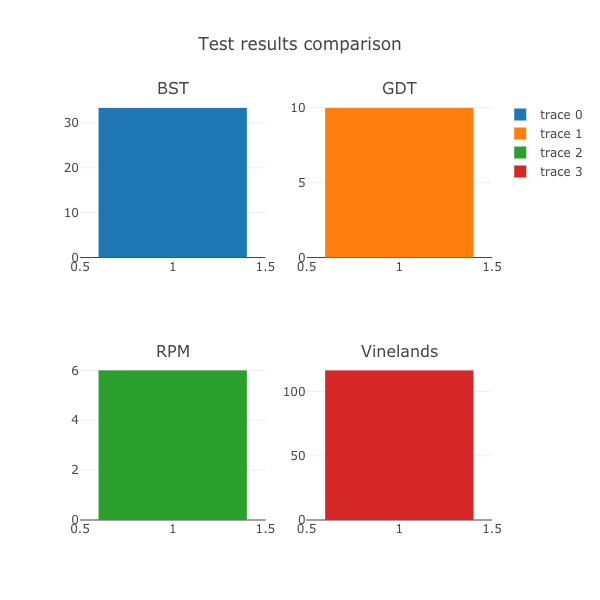
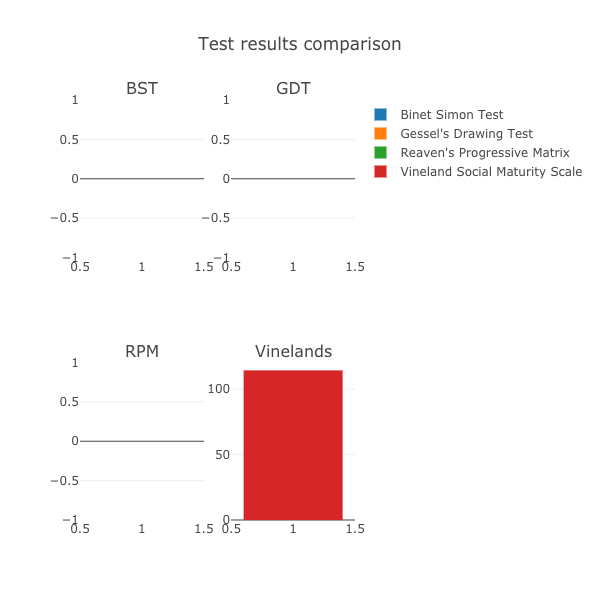
Age adaptive

diff --git a/Amaatra/calling.py b/Amaatra/calling.py
@@ -18,6 +18,7 @@ Age = 0
 test_number = 0
 
 def RPMCALL():
+    global Age
     root = Tk()
     w = 500 # width for the Tk root
     h = 500 # height for the Tk root
@@ -30,12 +31,13 @@ def RPMCALL():
     # set the dimensions of the screen
     # and where it is placed
     root.geometry('%dx%d+%d+%d' % (w, h, x, y))
-    RPMcall = RPM(root,6)
+    RPMcall = RPM(root,Age)
     root.mainloop()
     global RPMresult
     RPMresult=RPMcall.getresult()
 
 def BSTCALL():
+    global Age
     root = Tk()
     w = 500 # width for the Tk root
     h = 500 # height for the Tk root
@@ -48,12 +50,13 @@ def BSTCALL():
     # set the dimensions of the screen
     # and where it is placed
     root.geometry('%dx%d+%d+%d' % (w, h, x, y))
-    BSTcall = BST(root,6)
+    BSTcall = BST(root,Age)
     root.mainloop()
     global BSTresult
     BSTresult=BSTcall.getresult()
 
 def GDTCALL():
+    global Age
     root = Tk()
     w = 500 # width for the Tk root
     h = 500 # height for the Tk root
@@ -66,19 +69,19 @@ def GDTCALL():
     # set the dimensions of the screen
     # and where it is placed
     root.geometry('%dx%d+%d+%d' % (w, h, x, y))
-    GDTcall = GDT(root,6)
+    GDTcall = GDT(root,Age)
     root.mainloop() 
     global GDTresult
     GDTresult=GDTcall.getresult()
 
 def VLCALL():
-    c = Caller()
+    global Age
+    c = Caller(Age)
     global VLresult
     VLresult = c.getresult()
 
 def gph():
     global RPMresult,BSTresult,GDTresult,VLresult,RPMresultl,BSTresultl,GDTresultl,VLresultl
-    print("In Graph")
     root = Tk()
     w = 500 # width for the Tk root
     h = 500 # height for the Tk root
@@ -91,8 +94,9 @@ def gph():
     # set the dimensions of the screen
     # and where it is placed
     root.geometry('%dx%d+%d+%d' % (w, h, x, y))
-    plt = Plot(root)
-    print("Passing to graph:")
+    frame = Frame(root,width=750,height=750)
+    frame.pack()
+    plt = Plot(frame)
     BSTresultl.append(BSTresult)
     RPMresultl.append(RPMresult)
     VLresultl.append(VLresult)
@@ -111,16 +115,26 @@ def TAKETEST():
     GDTresultl = []
     VLresultl  = []
     test_number = 1
-    RPMCALL()
-    BSTCALL()
-    GDTCALL()
+    #RPMCALL()
+    #BSTCALL()
+    #GDTCALL()
     VLCALL()
     print(f'BST {BSTresult} GDT {GDTresult} VL {VLresult} RPM {RPMresult}' )
     gph()
 
 def FIREBASECALL():
     root = Tk()
-    root.geometry('500x500')
+    w=500
+    h=500
+    # get screen width and height
+    ws = root.winfo_screenwidth() # width of the screen
+    hs = root.winfo_screenheight() # height of the screen
+    # calculate x and y coordinates for the Tk root window
+    x = (ws/2) - (w/2)
+    y = (hs/2) - (h/2)
+    # set the dimensions of the screen
+    # and where it is placed
+    root.geometry('%dx%d+%d+%d' % (w, h, x, y))
     root.title("Amaatra-Login")
     f = Frame(root,width=750,height=750)
     f.pack()

diff --git a/Amaatra/tests/vl.py b/Amaatra/tests/vl.py
@@ -15,7 +15,7 @@ vli=0
 index_arr = [0] * 90
 agetoadd = 0
 age_range = {6:[45,65],7:[51,70],8:[57,74],9:[62,77]}
-cage = 6 #TODO Get value through some passing
+cage = 6
 vlf = age_range[cage][1]
 
 
@@ -43,7 +43,9 @@ class Question:
         if(letter == "A"):
             label = Label(view, text="Yes")
             yes += 1
-            basal_age+=agetoadd
+            if(vli==15 or vli==32):
+                basal_age=round(basal_age+0.1,2)
+            basal_age=round(basal_age+agetoadd,2)
             vli += 1
             index_arr[vli] = 1
         elif(letter == "B"):
@@ -126,7 +128,10 @@ number_of_questions = len(questions)
 
 
 class Caller:
-    def __init__(self):
+    def __init__(self,age):
+        global cage,vlf
+        cage = age
+        vlf = age_range[cage][1]
         self.window = Tk()
         w = 600
         h = 500
@@ -151,7 +156,7 @@ class Caller:
         global questions, button, yes, no,might, number_of_questions,social_quotient,index_arr,vlf,vli
         window = self.window
         if(vli == vlf):
-            Label(window,text="Thank you for answering the questions.\n basal_age = " + str(basal_age)).pack()
+            Label(window,text="Thank you for answering the questions.\n basal age = " + str(basal_age)).pack()
             global cage
             social_quotient=(basal_age/(cage*12))*100#chrono age taken as 10 as all question included are till 9-10 yearsold
             Label(window, text="social quotient = " + str(social_quotient)).pack()

diff --git a/Amaatra/graph.py b/Amaatra/graph.py
@@ -27,7 +27,7 @@ class Plot:
             y1.append(i)
             i = i+1
         t1 = dict(x=y1,y=bst)
-        BST = go.Bar(t1)
+        BST = go.Bar(t1,name='Binet Simon Test')
 
         i = 1
         y1 = []
@@ -36,7 +36,7 @@ class Plot:
             y1.append(i)
             i = i+1
         t1 = dict(x=y1,y=gdt)
-        GDT = go.Bar(t1)
+        GDT = go.Bar(t1,name="Gessel's Drawing Test")
         i = 1
         y1 = []
         
@@ -46,7 +46,7 @@ class Plot:
         t1 = dict(x=y1,y=rpm)
 
 
-        RPM = go.Bar(t1)
+        RPM = go.Bar(t1,name="Reaven's Progressive Matrix")
         i = 1
         y1 = []
         
@@ -54,7 +54,7 @@ class Plot:
             y1.append(i)
             i = i+1
         t1 = dict(x=y1,y=vi)
-        VI = go.Bar(t1)
+        VI = go.Bar(t1,name='Vineland Social Maturity Scale')
 
         fig = py.tools.make_subplots(rows=2, cols=2, subplot_titles=('BST', 'GDT','RPM', 'Vinelands'))
 
@@ -79,7 +79,6 @@ class Plot:
     
     def quitb(self):
         self.master.destroy()
-        self.master.quit()
         
 
 
